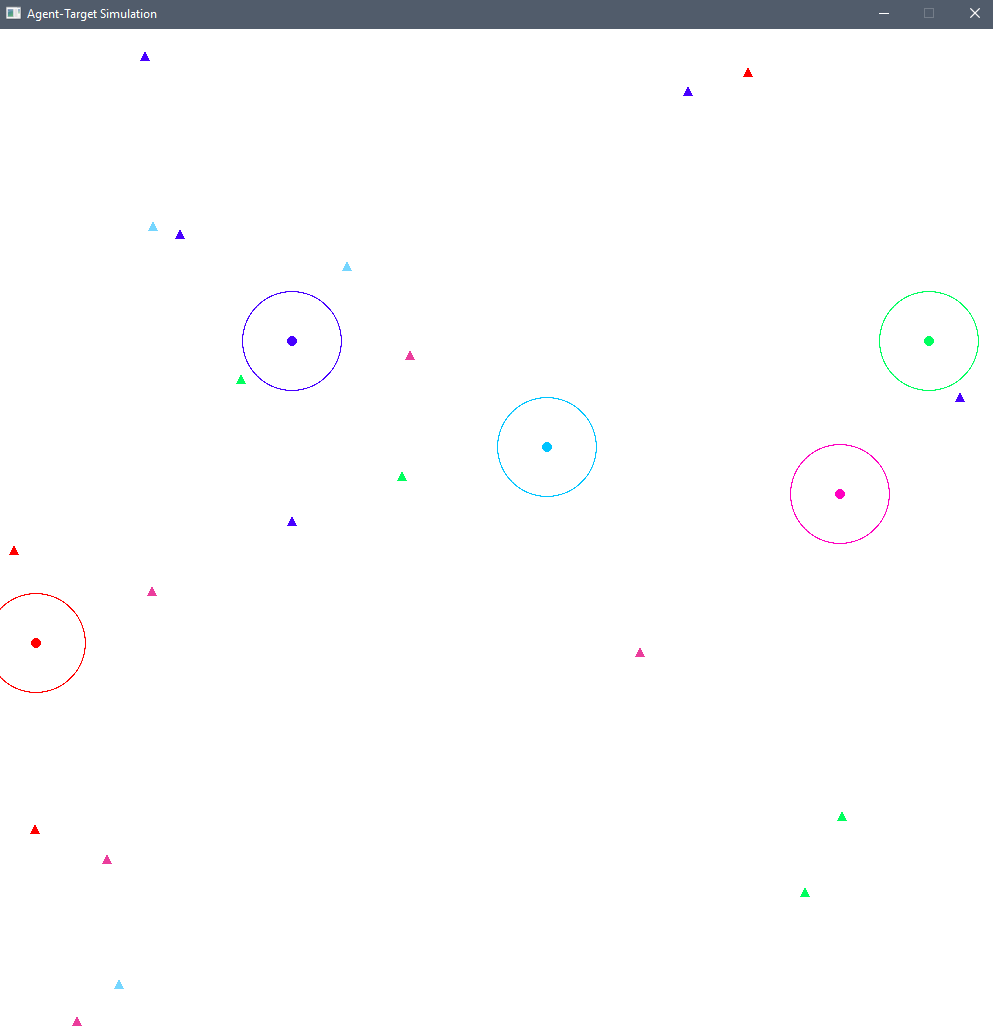
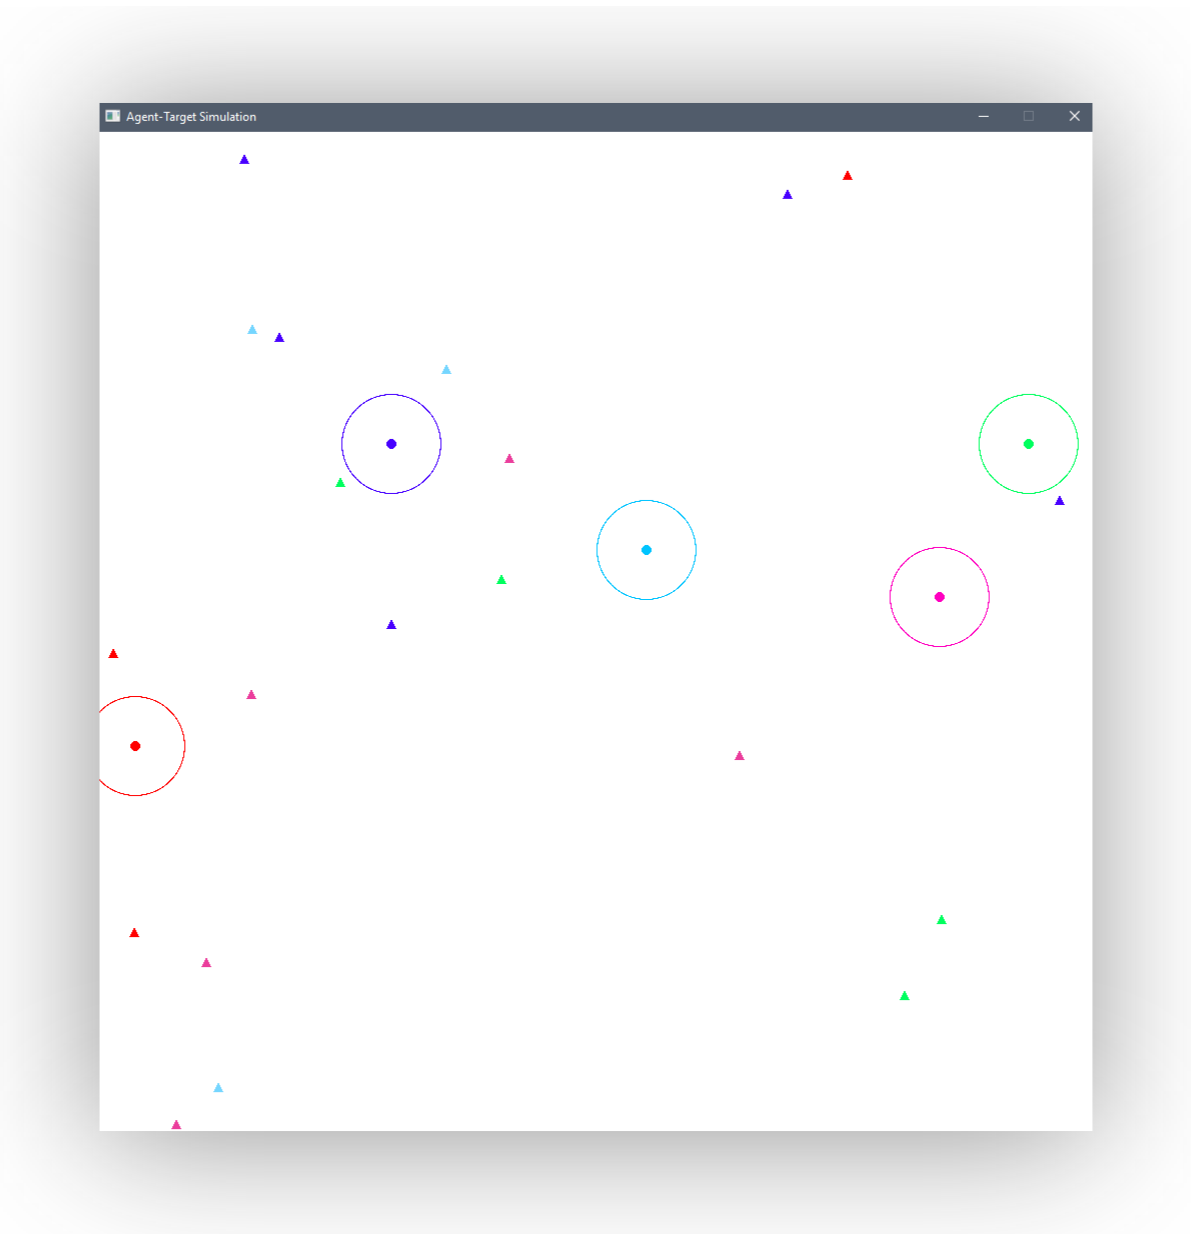
Added drop shadow

diff --git a/README.md b/README.md
@@ -1,6 +1,6 @@
 # AI-Course-Project
 
-#+html: <p align="center"><img height="600" width="600" src="./docs/cover.png" /></p>
+<p align="center"><img height="600" width="600" src="./docs/cover.png" /></p>
 
 We have implemented 3 scenarios of agent based search environment where each agent has to collect 5
 of its targets spawned randomly in the environment with a fixed location.
